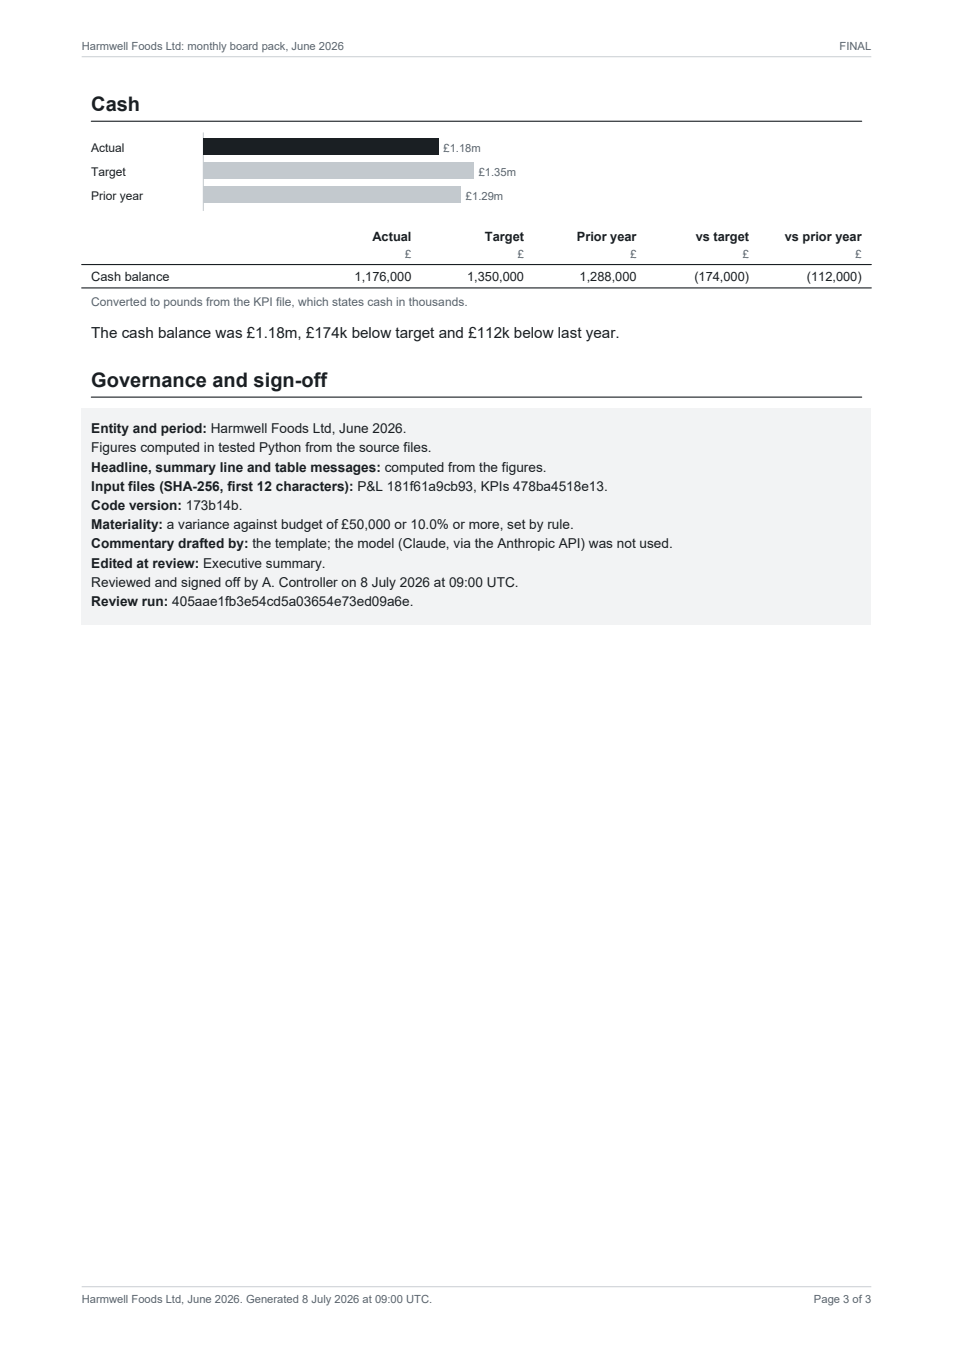
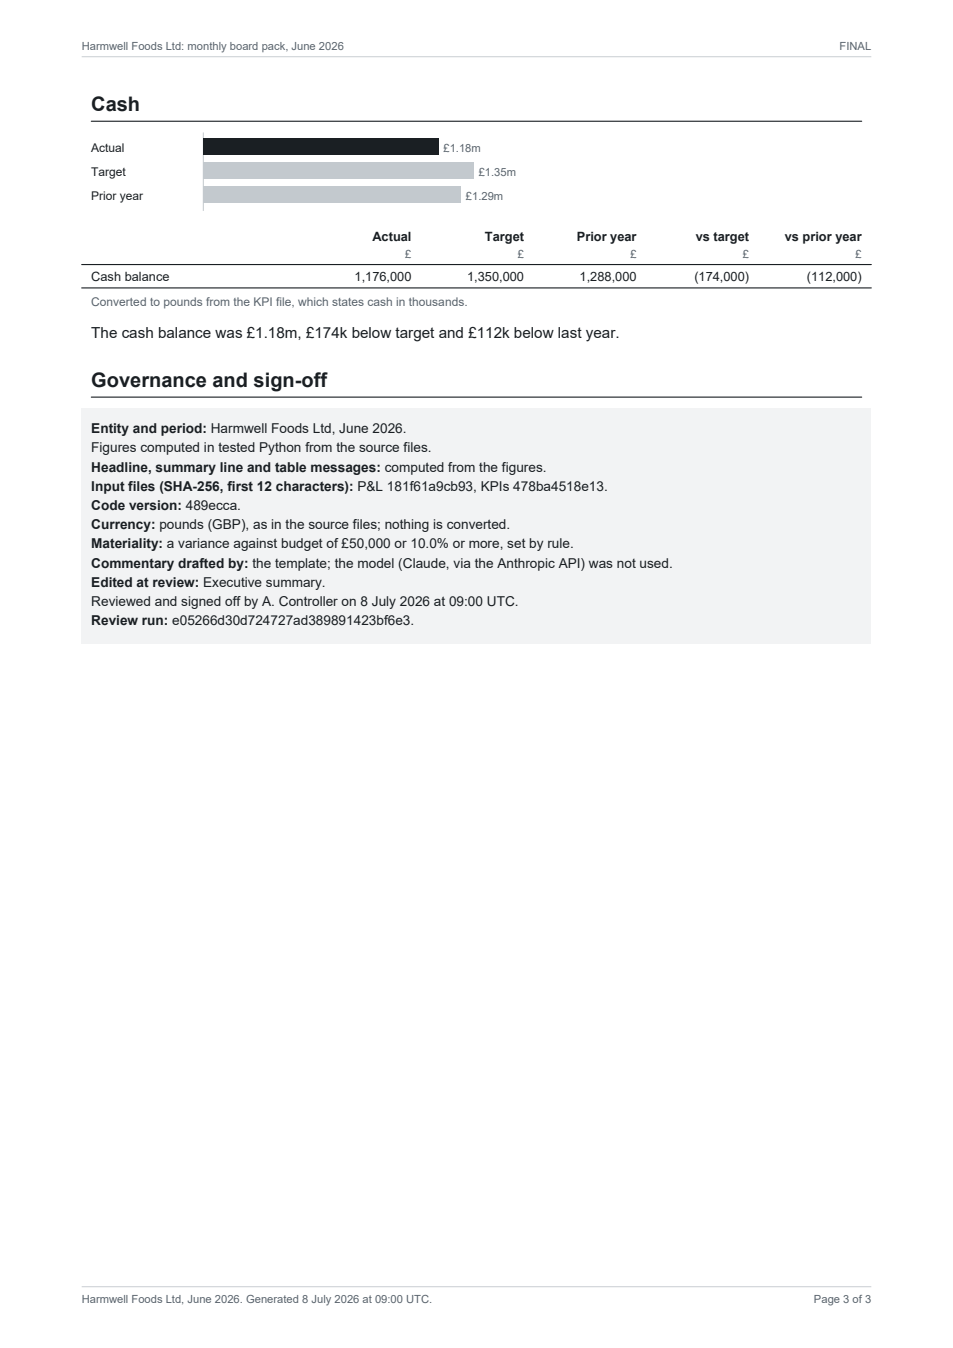
Rebuild the worked example at 489ecca for release 1.2.0; 626 tests

Changed region(s): [[0.0913, 0.3739, 0.6999, 0.4674]]

diff --git a/README.md b/README.md
@@ -285,7 +285,7 @@ PDF's file name and SHA-256.
 
 ## Test suite
 
-592 tests (512 on the engine, 80 on the web app), with no real API calls:
+626 tests (542 on the engine, 84 on the web app), with no real API calls:
 the model path is tested with fake clients, and the suite blocks every
 network connection.
 
